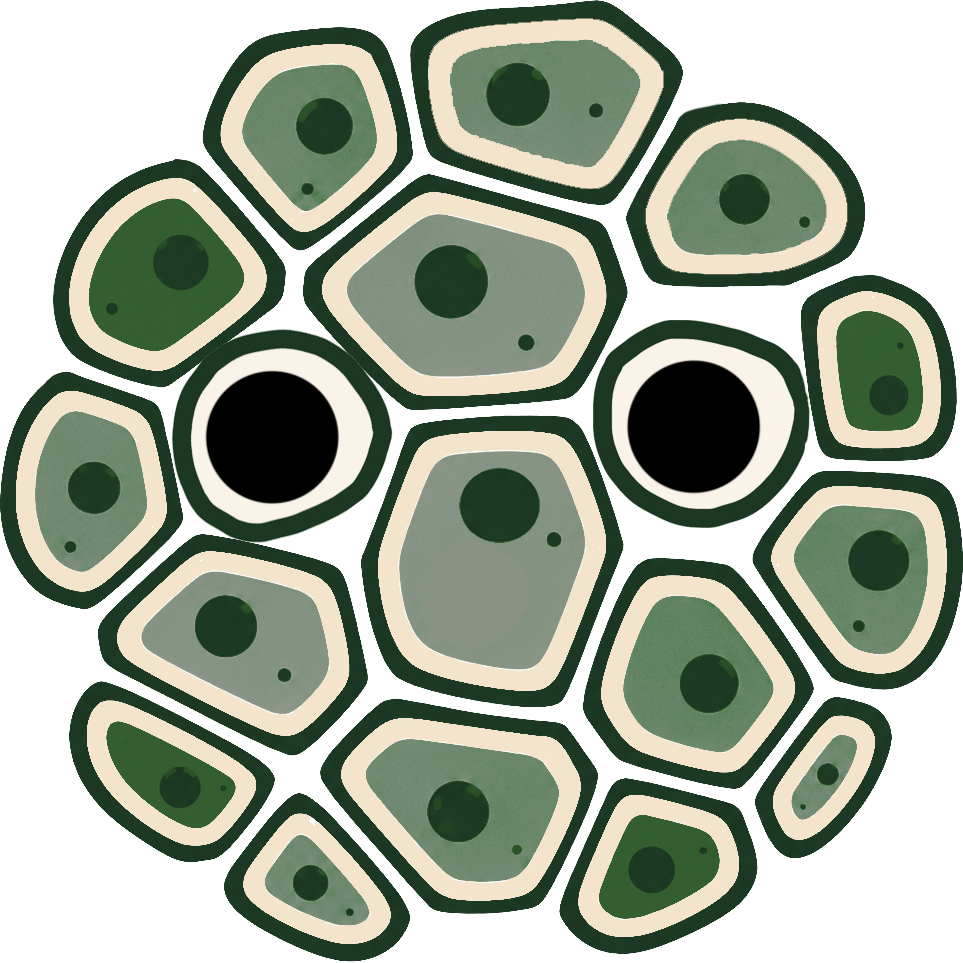
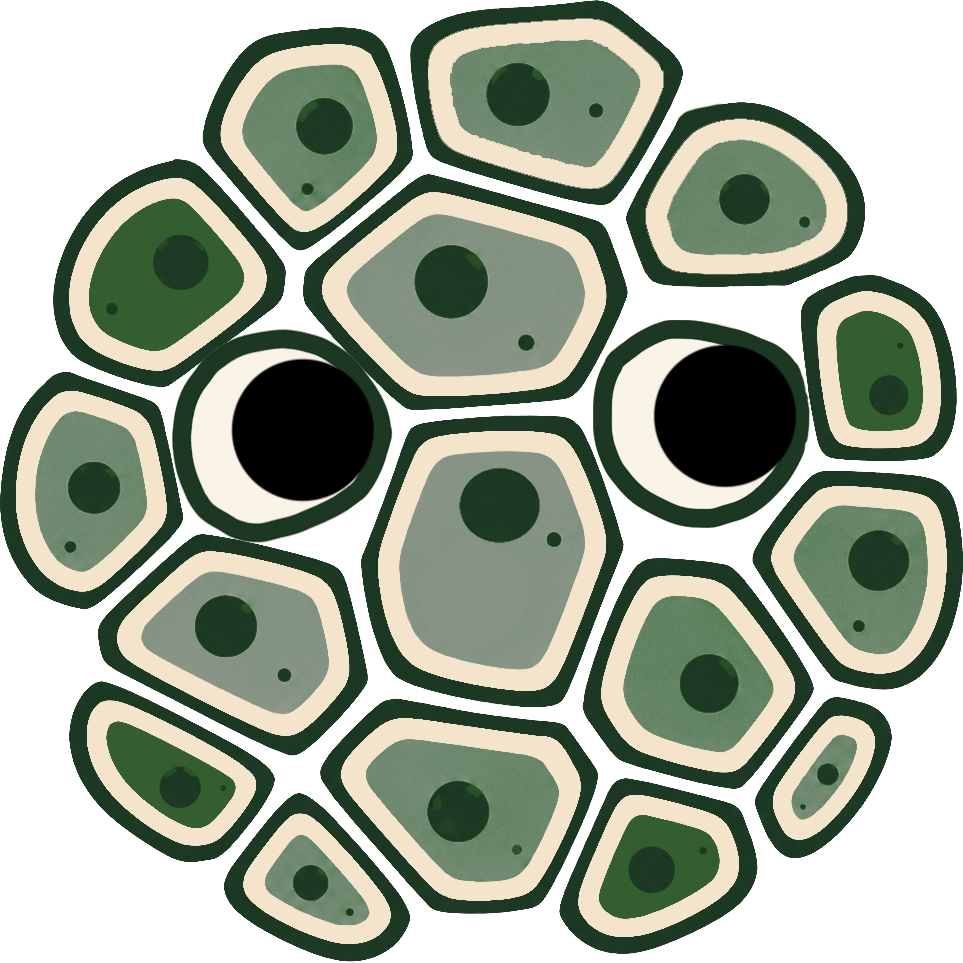
Kaksivastauksinen korttityyppi + uudet nappikuvat
- Kortin selaus: Kysymys → Laaja vastaus → (välilyönti) Suppea (toggle)
- Uudet nappikuvat: tarkista_vastaus, laaja_vastaus, suppea_vastaus, en_tiennyt, tiesin
- Poistettu vanhat nappikuvat (space_front/back, thumbsup/down, tiesitko) + korjattu viittaukset & CSS-maskit
- Lisää-kortti: teksti puhekuplaan, poistettu tallenna/sulje-✕ (autotallennus hoitaa)

Changed region(s): [[0.6542, 0.3427, 0.8411, 0.5296], [0.1869, 0.3738, 0.405, 0.5296]]

diff --git a/index.html b/index.html
@@ -200,7 +200,7 @@ body.dark-mode #home-hero .hero-link:hover { color: #eadfce; }
 @media (max-width: 640px){ #aku-portrait { width: 163px; margin-right: 1rem; } }
 body.dark-mode #home-hero .hero-manifest { color: #cbb9a0; }
 /* permanent Tervetuloa greeting to Mona's right (2x normal bubble text) */
-.home-greet { position: relative; align-self: flex-start; margin-left: 22px; max-width: 640px; height: auto; box-sizing: border-box; display: block; background: #fffef9; color: #56533c; border: 2px solid #d4cec4; border-radius: 22px; padding: 0.7rem 1.2rem; font-family: 'Lora', serif; font-size: 1.26rem; line-height: 1.3; box-shadow: 0 6px 20px rgba(0,0,0,0.16); }   /* height:auto = the bubble always wraps snugly around its text */
+.home-greet { position: relative; align-self: flex-start; margin-left: 22px; max-width: 640px; height: auto; box-sizing: border-box; display: block; background: #fffef9; color: #56533c; border: 2px solid #d4cec4; border-radius: 22px; padding: 0.7rem 1.2rem; font-family: 'Lora', serif; font-size: 1.05rem; line-height: 1.3; box-shadow: 0 6px 20px rgba(0,0,0,0.16); }   /* height:auto = the bubble always wraps snugly around its text */
 .home-greet::after { content: ""; position: absolute; right: 100%; top: var(--greet-tail-top, 47px); border: 13px solid transparent; border-right-color: #fffef9; }   /* tail Y set by positionGreetTail() so it always points at Mona's centre, whatever the viewport */
 .home-greet.greet-loading { padding: 1.15rem 1.6rem; }   /* while the decks load: a progress bar sits where the greeting text will go */
 .home-greet.greet-loading .loading-bar { margin: 2px auto; }
@@ -227,7 +227,7 @@ body.dark-mode .sem-col.spring { border-left-color: #6d5f52; }
   #home-mona { flex-direction: column-reverse; align-items: center; justify-content: center; align-self: stretch; gap: 10px; height: auto; margin: 8px 0 14px; }   /* bubble on top, Mona below, centred — same as the review page */
   #home-mona .site-brand { width: 92px; }
   .home-brand-block { display: none; }   /* hide the site-name block on mobile to keep Mona + bubble */
-  .home-greet { position: relative; height: auto; overflow: visible; font-size: 0.95rem; width: min(86vw, 320px); max-width: none; margin: 0; padding: 0.7rem 1rem; }
+  .home-greet { position: relative; height: auto; overflow: visible; font-size: 1.05rem; width: min(86vw, 320px); max-width: none; margin: 0; padding: 0.7rem 1rem; }
   .home-greet::after { left: 50%; top: 100%; right: auto; transform: translateX(-50%); border: 10px solid transparent; border-top-color: #fffef9; border-bottom-width: 0; }   /* tail points DOWN at Mona */
   body.dark-mode .home-greet::after { border-top-color: #3a312b; }
   body.dark-mode .sem-col.spring { border-top-color: #6d5f52; }
@@ -353,8 +353,8 @@ body.is-mobile #card-screen.card-fs-on .card-content { font-size: 1.0125rem; }  
 .tarkista-btn .tk-back { display: none; }   /* front = TARKISTA; back = TIESITKÖ? */
 #front-check.back .tarkista-btn .tk-front { display: none; }
 #front-check.back .tarkista-btn .tk-back { display: block; }
-#front-check.back .tarkista-fill { -webkit-mask-image: url('space_back.png'); mask-image: url('space_back.png'); }   /* mask the progress fill to the back keycap's shape */
-.tarkista-fill { position: absolute; inset: 0; background: #9ab8a1; mix-blend-mode: multiply; -webkit-mask: url('space_front.png') center/100% 100% no-repeat; mask: url('space_front.png') center/100% 100% no-repeat; clip-path: inset(0 calc(100% - var(--fill, 0%)) 0 0); pointer-events: none; }   /* deck progress fills the keycap left-to-right */
+#front-check.back .tarkista-fill { -webkit-mask-image: url('tarkista_vastaus.png'); mask-image: url('tarkista_vastaus.png'); }   /* mask the progress fill to the keycap's shape */
+.tarkista-fill { position: absolute; inset: 0; background: #9ab8a1; mix-blend-mode: multiply; -webkit-mask: url('tarkista_vastaus.png') center/100% 100% no-repeat; mask: url('tarkista_vastaus.png') center/100% 100% no-repeat; clip-path: inset(0 calc(100% - var(--fill, 0%)) 0 0); pointer-events: none; }   /* deck progress fills the keycap left-to-right */
 body.dark-mode .tarkista-fill { background: #6f8f77; }
 .tarkista-btn.keycap-press { animation: keycapPress 0.16s ease; }   /* same up/down dip as the answer buttons */
 .tarkista-btn:active { transform: translateY(2px); }
@@ -517,7 +517,7 @@ body.deck-intro-anim #card-overview-grid .overview-card, body.deck-intro-anim #c
 @keyframes monaShake { 0%,100%{transform:translate(0,0) rotate(0)} 20%{transform:translate(-4px,2px) rotate(-6deg)} 40%{transform:translate(4px,-2px) rotate(6deg)} 60%{transform:translate(-3px,1px) rotate(-4deg)} 80%{transform:translate(2px,-1px) rotate(3deg)} }
 .mona-shake img { animation: monaShake 0.5s ease; }
 .mona-top-spacer { flex: 0 0 118px; visibility: hidden; }   /* balances Mona so the bubble stays centred on the title */
-.mona-top-bubble { position: relative; flex: 0 1 auto; max-width: 36ch; background: #fffef9; border: 1px solid #d4cec4; border-radius: 16px; padding: 0.7rem 1rem; font-family: 'Lora', serif; font-size: 0.92rem; line-height: 1.45; color: #56533c; box-shadow: 0 4px 16px rgba(0,0,0,0.12); text-align: left; }
+.mona-top-bubble { position: relative; flex: 0 1 auto; max-width: 36ch; background: #fffef9; border: 1px solid #d4cec4; border-radius: 16px; padding: 0.7rem 1rem; font-family: 'Lora', serif; font-size: 1.05rem; line-height: 1.45; color: #56533c; box-shadow: 0 4px 16px rgba(0,0,0,0.12); text-align: left; }
 @media (min-width: 901px) { #mona-top-peek { font-family: 'Lora', serif; font-size: clamp(1rem, 1.5vw, 1.2rem); max-width: 46ch; } #mona-top-peek .mona-top-bubble { flex: 1 1 auto; max-width: none; } #mona-top-peek .mona-top-spacer { display: none; } }   /* desktop review cover: Mona + bubble span the same 46ch as the esittely text (font matched so 46ch resolves identically), centred by the cover; bubble fills to the RIGHT of Mona */
 .mona-top-bubble::before { content: ''; position: absolute; left: -9px; top: 50%; transform: translateY(-50%); border: 9px solid transparent; border-right-color: #fffef9; border-left: 0; }
 body.dark-mode .mona-top-bubble { background: #3a312b; border-color: #6d5f52; color: #eadfce; }
@@ -841,7 +841,7 @@ body.dark-mode .dev-comment-snip { color: #eadfce; }
 .site-brand { position: relative; width: min(202px, 45vw); aspect-ratio: 1 / 1; z-index: 9999; margin: 0 auto; }
 .brand-inner { position: relative; width: 100%; height: 100%; }
 .brand-inner.twitch { animation: logoTwitch 0.45s ease; }
-.home-bubble { position: absolute; bottom: 100%; left: 50%; transform: translateX(-50%); margin-bottom: 18px; width: max-content; max-width: 280px; background: #fffef9; color: #56533c; border: 2px solid #d4cec4; border-radius: 22px; padding: 0.8rem 1.1rem; box-shadow: 0 6px 20px rgba(0,0,0,0.16); font-family: 'Lora', serif; font-size: 0.9rem; line-height: 1.4; text-align: center; z-index: 10000; opacity: 0; pointer-events: none; transition: opacity 0.25s ease; display: flex; flex-wrap: wrap; align-items: center; justify-content: center; gap: 0.5rem; }
+.home-bubble { position: absolute; bottom: 100%; left: 50%; transform: translateX(-50%); margin-bottom: 18px; width: max-content; max-width: 280px; background: #fffef9; color: #56533c; border: 2px solid #d4cec4; border-radius: 22px; padding: 0.8rem 1.1rem; box-shadow: 0 6px 20px rgba(0,0,0,0.16); font-family: 'Lora', serif; font-size: 1.05rem; line-height: 1.4; text-align: center; z-index: 10000; opacity: 0; pointer-events: none; transition: opacity 0.25s ease; display: flex; flex-wrap: wrap; align-items: center; justify-content: center; gap: 0.5rem; }
 .site-brand.home-bubble-open .home-bubble.active { opacity: 1; pointer-events: auto; }
 .home-bubble::after { content: ""; position: absolute; top: 100%; left: 50%; transform: translateX(-50%); width: 0; height: 0; border: 12px solid transparent; border-top-color: #fffef9; margin-top: -2px; }
 body.dark-mode .home-bubble { background: #3a312b; color: #eadfce; border-color: #6d5f52; }
@@ -857,7 +857,7 @@ body.is-mobile #peek-logo { width: 75px; height: 75px; }   /* half size on mobil
 .peek-inner { width: 100%; height: 100%; position: relative; transition: transform 0.7s cubic-bezier(0.34, 1.4, 0.64, 1); }
 #peek-logo[data-side="left"].peek-show  .peek-inner { transform: rotate(8deg); }
 #peek-logo[data-side="right"].peek-show .peek-inner { transform: rotate(-8deg); }
-.peek-bubble { position: absolute; top: 50%; transform: translateY(-50%); width: max-content; max-width: 230px; background: #fffef9; color: #56533c; border: 2px solid #d4cec4; border-radius: 22px; padding: 0.7rem 1rem; box-shadow: 0 6px 20px rgba(0,0,0,0.16); font-family: 'Lora', serif; font-size: 0.82rem; line-height: 1.35; display: none; align-items: center; gap: 0.5rem; opacity: 0; pointer-events: none; transition: opacity 0.2s ease; }
+.peek-bubble { position: absolute; top: 50%; transform: translateY(-50%); width: max-content; max-width: 230px; background: #fffef9; color: #56533c; border: 2px solid #d4cec4; border-radius: 22px; padding: 0.7rem 1rem; box-shadow: 0 6px 20px rgba(0,0,0,0.16); font-family: 'Lora', serif; font-size: 1.05rem; line-height: 1.35; display: none; align-items: center; gap: 0.5rem; opacity: 0; pointer-events: none; transition: opacity 0.2s ease; }
 .peek-bubble.active { display: flex; }
 #peek-logo.bubble-open .peek-bubble.active { opacity: 1; pointer-events: auto; }
 #peek-logo[data-side="left"]  .peek-bubble { left: 100%; margin-left: 14px; }
@@ -1256,10 +1256,17 @@ body.dark-mode .cal-day.cal-today .cal-num { background:#5c8a6a; color:#fff; }
 .chat-wrap { display:flex; flex-direction:column; }
 .chat-body { min-height:0; max-height:62vh; overflow-y:auto; display:flex; flex-direction:column; justify-content:flex-end; padding-right:6px; }   /* greeting + messages sit just above the input */
 .chat-greet-row { display:flex; align-items:flex-end; justify-content:flex-start; gap:8px; margin:6px 0 14px; }
-.chat-greet { position:relative; background:#fffef9; border:1px solid #e7e1d6; border-radius:14px; border-bottom-left-radius:4px; padding:0.8rem 1.1rem; font-family:'Lora',serif; color:#56533c; font-size:1.0rem; line-height:1.4; box-shadow:0 2px 8px rgba(0,0,0,0.07); max-width:76%; }
+#front-check.back .fc-nav { width: min(132px, 26vw) !important; }   /* grade state: widen the side buttons to fit the 1.8:1 En tiennyt / Tiesin images */
+.add-info-wrap { display:flex; flex-direction:column; align-items:center; }
+.add-info-bubble { position:relative; background:#fffef9; border:2px solid #d4cec4; border-radius:22px; padding:1rem 1.3rem; color:#56533c; box-shadow:0 6px 20px rgba(0,0,0,0.12); text-align:left; font-size:1.0rem; line-height:1.4; }
+.add-info-bubble::after { content:""; position:absolute; top:100%; left:50%; transform:translateX(-50%); border:14px solid transparent; border-top-color:#fffef9; margin-top:-2px; }
+body.dark-mode .add-info-bubble { background:#2b2622; color:#eadfce; border-color:#4a3f36; }
+body.dark-mode .add-info-bubble::after { border-top-color:#2b2622; }
+.add-info-mona { display:block; width:130px; max-width:45%; margin:14px auto 0; }
+.chat-greet { position:relative; background:#fffef9; border:1px solid #e7e1d6; border-radius:14px; border-bottom-left-radius:4px; padding:0.8rem 1.1rem; font-family:'Lora',serif; color:#56533c; font-size:1.05rem; line-height:1.4; box-shadow:0 2px 8px rgba(0,0,0,0.07); max-width:76%; }
 .chat-mona, .chat-avatar { width:38px; height:38px; flex:0 0 auto; border-radius:50%; object-fit:cover; }
 body.dark-mode .chat-greet { background:#2b2622; color:#eadfce; border-color:#4a3f36; }
-@media (max-width:760px){ .chat-greet-row{ gap:6px; } .chat-mona, .chat-avatar{ width:34px; height:34px; } .chat-greet{ font-size:0.92rem; } }
+@media (max-width:760px){ .chat-greet-row{ gap:6px; } .chat-mona, .chat-avatar{ width:34px; height:34px; } .chat-greet{ font-size:1.05rem; } }
 .chat-messages { display:flex; flex-direction:column; gap:10px; padding:0 8px 6px 2px; }
 .chat-empty { color:#7a6f60; font-family:'Lora',serif; text-align:center; padding:30px 0; }
 .chat-msg { display:flex; align-items:flex-end; gap:8px; }
@@ -2437,7 +2444,6 @@ body.dark-mode .cal-ev { color:#241f1b; }
           <div class="card-content ucard-editable" id="ucard-back" contenteditable="true" data-ph="Kääntöpuoli" spellcheck="false" oninput="updateUcardSaveBtn()"></div>
         </div>
       </div>
-      <button type="button" id="ucard-save-btn" onclick="ucardSaveOrCancel()" title="Sulje / lisää kortti"></button>
     </div>
   </div>
   <div id="grid-col">
@@ -2501,16 +2507,16 @@ body.dark-mode .cal-ev { color:#241f1b; }
 
   <!-- fullscreen front: [Edellinen] [Tarkista button = progress fill + peeking Mona] [Seuraava] -->
   <div id="front-check">
-    <button class="fc-nav" id="fc-nav-left" onclick="frontNavLeft()" onmouseenter="showGradeHint(event,'En tiennyt')" onmousemove="moveGradeHint(event)" onmouseleave="hideGradeHint()"><img class="nav-front" src="edellinen.png" alt="Edellinen"><img class="nav-back" src="ei.png" alt="Ei"><span class="grade-count" id="gc-nav-left"></span></button>
+    <button class="fc-nav" id="fc-nav-left" onclick="frontNavLeft()" onmouseenter="showGradeHint(event,'En tiennyt')" onmousemove="moveGradeHint(event)" onmouseleave="hideGradeHint()"><img class="nav-front" src="edellinen.png" alt="Edellinen"><img class="nav-back" src="en_tiennyt.png" alt="En tiennyt"><span class="grade-count" id="gc-nav-left"></span></button>
     <div class="tarkista-wrap">
       <div class="fc-bubble" id="fc-bubble"></div>
       <button id="tarkista-btn" class="tarkista-btn" onclick="frontCheckReveal()" title="Tarkista (välilyönti)">
-        <img class="tk-front" src="space_front.png" alt="Tarkista vastaus">
-        <img class="tk-back" src="space_back.png" alt="Tiesitkö vastauksen?">
+        <img class="tk-front" src="tarkista_vastaus.png" alt="Tarkista vastaus">
+        <img class="tk-back" src="tarkista_vastaus.png" alt="Tarkista vastaus">
         <div class="tarkista-fill" id="tarkista-fill"></div>
       </button>
     </div>
-    <button class="fc-nav" id="fc-nav-right" onclick="frontNavRight()" onmouseenter="showGradeHint(event,'Tiesin')" onmousemove="moveGradeHint(event)" onmouseleave="hideGradeHint()"><img class="nav-front" src="seuraava.png" alt="Seuraava"><img class="nav-back" src="kylla.png" alt="Kyllä"></button>
+    <button class="fc-nav" id="fc-nav-right" onclick="frontNavRight()" onmouseenter="showGradeHint(event,'Tiesin')" onmousemove="moveGradeHint(event)" onmouseleave="hideGradeHint()"><img class="nav-front" src="seuraava.png" alt="Seuraava"><img class="nav-back" src="tiesin.png" alt="Tiesin"></button>
   </div>
   <div id="grade-hint" class="grade-hint"></div>
 
@@ -3035,7 +3041,7 @@ function heroMonaClick(){
 const MONA_BUBBLES={
   home_decks:'Alla näet hirmuisen määrän korttipakkoja, joista jokainen vastaa tiettyä Turun yliopiston kurssia. Pakka koostuu kysymyskorteista, joita kertaamalla voit opiskella koko kurssialueen. Aloita klikkaamalla haluamaasi korttipakkaa!',
   home_quiz:'Solukko.com järjestää tietovisoja pilteille joka maanantai Aurumin TEK Loungessa klo 16:00&ndash;18:00. Tietovisoissa kerrataan edellisviikon luentojen asiat ja jaossa on pieniä palkintoja kaikille oikein vastaaville. Vapaa pääsy, ei ilmoittautumista! Ensimmäinen tietovisa 7.9.2026.',
-  homepage1:'<span>Tervetuloa Solukkoon! Täällä voit opiskella yliopistokurssit valmiiden kysymyskorttien avulla! Jos olet uusi täällä, nimeni on Mona ja klikkaamalla minua opastan sinua sivuston käytössä.</span>',
+  homepage1:'<span>Tervetuloa Solukkoon! Täällä voit opiskella yliopistokurssit valmiiden kysymyskorttien avulla! Nimeni on Mona. Klikkaa minua, jos haluat opastusta sivuston käytössä.</span>',
   homepage2:'Alla näet hirmuisen määrän kurssipakkoja, joista jokainen vastaa tiettyä Turun yliopiston kurssia. Pakka koostuu kysymyskorteista, joita kertaamalla voit opiskella koko kurssialueen. Helppoa eikö?',
   homepage3:'Klikkaa jotain kurssipakkaa, niin näytän sinulle miten kertaaminen toimii. Tai sitten voin jatkaa kertomalla sinulle Solukko™-tietovisoista!',
 
@@ -3341,9 +3347,11 @@ function parseAnkiDB(db) {
       const note=notes[noteId]; if(!note) return;
       const deckName=deckMap[String(did)]||String(did);
       const fnames=Object.keys(note.fields);
-      const frontF=fnames.find(f=>['front','question','text','content'].includes(f.toLowerCase()))||fnames[0]||'';
-      const backF=fnames.find(f=>['back','answer','extra'].includes(f.toLowerCase()))||fnames[1]||'';
-      cards.push({ cardId, noteId, deckName, modelName:note.modelName, fields:note.fields, tags:note.tags, question:note.fields[frontF]?.value||'', answer:note.fields[backF]?.value||'', due, type, queue, ord });
+      const frontF=fnames.find(f=>['front','question','text','content','kysymys'].includes(f.toLowerCase()))||fnames[0]||'';
+      const backF=fnames.find(f=>['back','answer','extra','laaja vastaus'].includes(f.toLowerCase()))||fnames[1]||'';
+      const suppeaF=fnames.find(f=>f.toLowerCase()==='suppea vastaus');   // new note type: the concise answer revealed at the second space
+      const suppea=suppeaF?(note.fields[suppeaF]?.value||''):'';
+      cards.push({ cardId, noteId, deckName, modelName:note.modelName, fields:note.fields, tags:note.tags, question:note.fields[frontF]?.value||'', answer:note.fields[backF]?.value||'', suppea, due, type, queue, ord });
     });
   }
   return cards;
@@ -3849,6 +3857,17 @@ async function renderCurrentCard(){
   _scopeText = _laajuusText; if(typeof updateScopeMona==='function') updateScopeMona();   // the bottom-right study-view Mona shows the answer's extent
   if(typeof updateFsCardButtons==='function') updateFsCardButtons();   // own card in fullscreen (desktop) → Ehdota button instead of the comment button
   if(_bub) _bub.textContent=_frontText;
+  // ── Two answers (new note type): after reveal, the middle button shows Laaja/Suppea and space TOGGLES between them ──
+  _answerMode='laaja'; card._hasSuppea=false; card._suppeaHtml=''; card._laajaHtml='';
+  { const _tkb0=document.querySelector('#tarkista-btn .tk-back'); if(_tkb0) _tkb0.src='tarkista_vastaus.png'; }   // reset the reveal button image (new cards override to Laaja/Suppea on reveal)
+  { const _sup=(card.suppea||'');
+    if(_sup.replace(/<[^>]*>/g,'').trim() && !card._isSpecial){
+      card._laajaHtml=document.getElementById('answer-content').innerHTML;      // the revealed answer is the Laaja version
+      const _tmp=document.createElement('div'); _tmp.innerHTML=await fixImages(_sup); dimParentheses(_tmp); applyWordLinks(_tmp);
+      card._suppeaHtml=_tmp.innerHTML;
+      card._hasSuppea=true;
+    }
+  }
   if(_peek){ _peek.style.display=''; _peek.style.visibility='hidden'; _peek.style.transition='none'; _peek.style.transform=''; _peek.style.transformOrigin=''; _peek.classList.remove('peek-in','peek-out'); }
   clearTimeout(_peekRetractTimer); _peekAutoRetract=false; clearTimeout(_backPeekTimer);   // a fresh card cancels the backside-peeker timers
   clearTimeout(_cardPeekTimer);   // top peeker animates in 2s after the card loads
@@ -4178,6 +4197,7 @@ function fsBtnPress(el){ _keycapDip(el); try{ playKeyClick(); }catch(e){} }   //
 // reveal the answer via the Tarkista button
 function frontCheckReveal(){
   if(cardAnswerShown){                                          // back → front: same as the front→back flip — shake + click, no fly-in slide
+    if(currentCard && currentCard._hasSuppea){ _keycapDip(document.getElementById('tarkista-btn')); toggleAnswerMode(); return; }   // space after reveal: toggle Laaja <-> Suppea (new note type)
     _keycapDip(document.getElementById('tarkista-btn'));
     const fc=document.getElementById('flashcard');
     if(fc){ fc.classList.remove('card-in-right','card-in-left','card-shake'); void fc.offsetWidth; fc.classList.add('card-shake'); setTimeout(()=>fc.classList.remove('card-shake'),500); }
@@ -5055,6 +5075,19 @@ function closeCelebEyes(){   // ~42s: eyes shut again (main Mona + friends)
   sing.classList.add('eyes-closed');
   sing.querySelectorAll('.brand-logo-img').forEach(img=>img.src='mona_scream.png');
 }
+let _answerMode='laaja';
+function _applyAnswerMode(){   // swap the answer text + the middle button's image to match the current Laaja/Suppea mode
+  if(!currentCard||!currentCard._hasSuppea) return;
+  const ac=document.getElementById('answer-content'); if(ac) ac.innerHTML=(_answerMode==='suppea')?currentCard._suppeaHtml:currentCard._laajaHtml;
+  const tkb=document.querySelector('#tarkista-btn .tk-back'); if(tkb) tkb.src=(_answerMode==='suppea')?'suppea_vastaus.png':'laaja_vastaus.png';
+}
+function toggleAnswerMode(){   // space after reveal: toggle Laaja <-> Suppea (new note type only)
+  if(!currentCard||!currentCard._hasSuppea) return false;
+  _answerMode=(_answerMode==='suppea')?'laaja':'suppea'; _applyAnswerMode();
+  _cardShakeOnly(); try{ playKeyClick(); }catch(e){}
+  fitCardScale(); scrollToCard(); if(typeof flashWordLinkBubbles==='function') flashWordLinkBubbles();
+  return true;
+}
 function showAnswer(){
   if(!currentCard||cardAnswerShown) return;
   cardAnswerShown=true;
@@ -5079,6 +5112,7 @@ function showAnswer(){
     fitCardScale(); scrollToCard();   // re-lay out so the answer buttons show fully
     updateFsSlider();   // in fullscreen: reveal shows the grading slider
     flashWordLinkBubbles();   // answer revealed: flash the speech-bubble graphic on its linked words
+    if(currentCard && currentCard._hasSuppea){ _answerMode='laaja'; _applyAnswerMode(); }   // new note type: reveal shows Laaja first + sets the toggle button image
   };
   clearTimeout(_cardPeekTimer); clearTimeout(_laajuusTimer);   // don't pop the top peeker in mid-flip
   const _pk=document.getElementById('card-peek');   // top peeker turns WITH the card (same vertical axis)
@@ -5334,9 +5368,11 @@ async function deleteUserCard(docId){
 // ════════════════════════════════════════════════════════════
 // KORTTIEHDOTUKSET   (a user suggests an OWN card as an official course card; the dev awards a golden-style claim code worth 0,25 €)
 // ════════════════════════════════════════════════════════════
-const ADD_CARD_INFO_HTML='<div style="font-weight:700;margin-bottom:0.6rem;">Haluatko luoda oman kortin?</div>'
-  +'<div>Luomasi kortit eivät näy muille sivuston käyttäjille ja ovat saatavilla vain sillä laitteella, jolla ne luotiin. Voit myös lähettää korttisi ylläpidon luettavaksi painamalla ”Ehdota”-painiketta. Hyväksytty korttiehdotus lisätään osaksi kurssia kaikille käyttäjille. Solukko.com palkitsee 0,25&nbsp;€ jokaisesta hyväksytystä korttiehdotuksesta, jolloin yhteydenottopyyntö lähetetään sille laitteelle, jolla korttia ehdotettiin.</div>'
-  +'<img src="mona_wow.png" alt="Mona" style="display:block;margin:1.4rem auto 0;width:150px;max-width:55%;">';
+const ADD_CARD_INFO_HTML='<div class="add-info-wrap">'
+  +'<div class="add-info-bubble"><div style="font-weight:700;margin-bottom:0.6rem;">Haluatko luoda oman kortin?</div>'
+  +'<div>Luomasi kortit eivät näy muille sivuston käyttäjille ja ovat saatavilla vain sillä laitteella, jolla ne luotiin. Voit myös lähettää korttisi ylläpidon luettavaksi painamalla ”Ehdota”-painiketta. Hyväksytty korttiehdotus lisätään osaksi kurssia kaikille käyttäjille. Solukko.com palkitsee 0,25&nbsp;€ jokaisesta hyväksytystä korttiehdotuksesta, jolloin yhteydenottopyyntö lähetetään sille laitteelle, jolla korttia ehdotettiin.</div></div>'
+  +'<img src="mona_wow.png" alt="Mona" class="add-info-mona">'
+  +'</div>';
 let _addInfoOn=false;
 function previewAddCardInfo(){   // hovering a "+ Lisää kortti" tile shows this info card on the right (review page, desktop preview)
   if(inFullscreen()) return;
